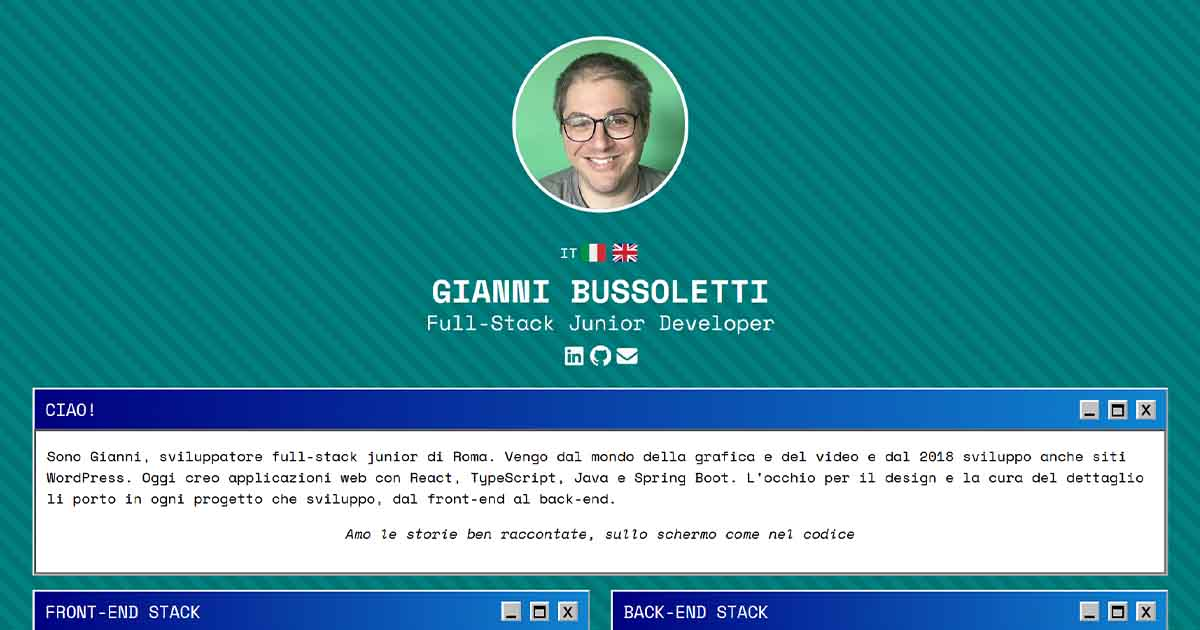
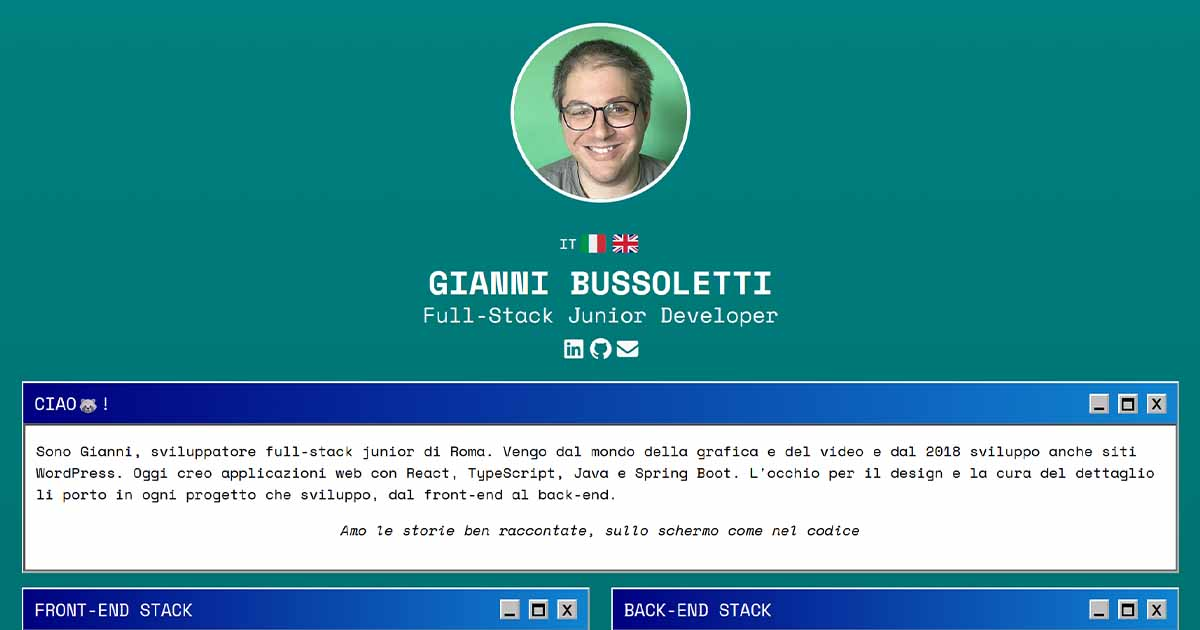
optimize bootstrap import

Changed region(s): [[0.0, 0.0302, 0.9867, 1.0]]

diff --git a/index.html b/index.html
@@ -10,7 +10,11 @@
     <meta
       property="og:description"
       content="Portfolio di Gianni Bussoletti, sviluppatore Full-Stack (React, Typescript, Java Spring Boot) di Roma." />
-    <meta property="og:image" content="https://giannibussoletti.it/og-image.jpg" />
+    <meta property="og:image:secure_url" content="https://giannibussoletti.it/og-image.jpg" />
+    <meta property="og:image:alt" content="Anteprima del sito" />
+    <meta property="og:image:width" content="1200" />
+    <meta property="og:image:height" content="630" />
+    <meta property="og:image:type" content="image/jpg" />
     <meta property="og:url" content="https://giannibussoletti.it" />
     <link rel="preconnect" href="https://fonts.googleapis.com" />
     <link rel="preconnect" href="https://fonts.gstatic.com" crossorigin />

diff --git a/src/assets/css/style.scss b/src/assets/css/style.scss
@@ -1,5 +1,21 @@
-@use "bootstrap/scss/bootstrap.scss";
+@import "bootstrap/scss/functions";
+@import "bootstrap/scss/variables";
+@import "bootstrap/scss/variables-dark";
+@import "bootstrap/scss/maps";
+@import "bootstrap/scss/mixins";
+@import "bootstrap/scss/utilities";
+@import "bootstrap/scss/root";
+@import "bootstrap/scss/reboot";
 
+@import "bootstrap/scss/containers";
+@import "bootstrap/scss/grid";
+@import "bootstrap/scss/transitions";
+@import "bootstrap/scss/buttons";
+@import "bootstrap/scss/images";
+@import "bootstrap/scss/card";
+@import "bootstrap/scss/tooltip";
+
+@import "bootstrap/scss/utilities/api";
 :root {
   --window-blue: #000080;
   --window-gradient: #1084d0;
